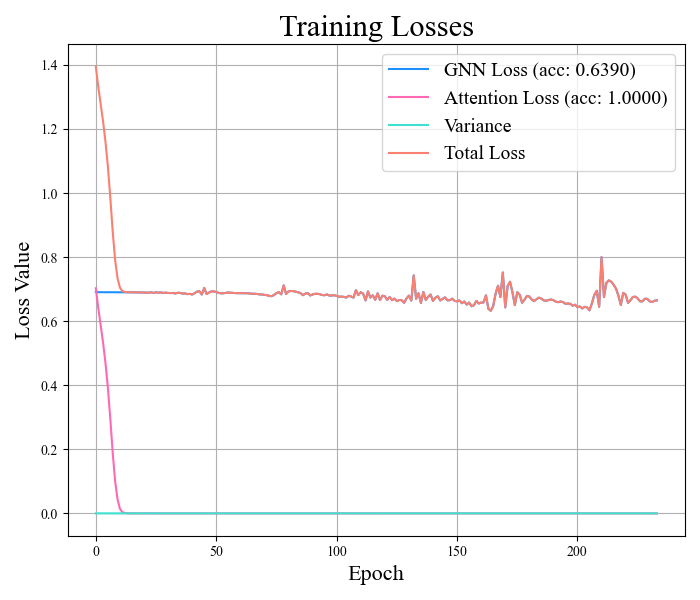
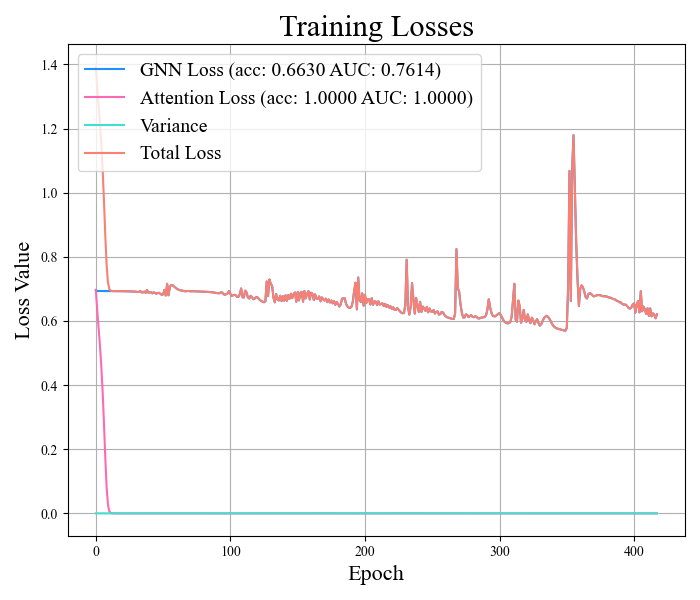
Add auc scores to the model

diff --git a/train.py b/train.py
@@ -10,6 +10,7 @@ from matplotlib import rcParams
 from models import *
 from constants import *
 from tqdm.auto import tqdm
+from sklearn.metrics import roc_auc_score
 
 # Set the font for the plots
 rcParams['font.family'] = "Times New Roman"
@@ -163,10 +164,21 @@ def train(n_classes, n_colors, data):
     print(f"Final GNN Accuracy: {gnn_accuracy:.4f}")
     print(f"Final Attention Accuracy: {attention_accuracy:.4f}")
 
+    # Check AUC
+    gnn_scores = mlp_output.softmax(dim=1)[:, 1].detach().cpu().numpy()
+    attention_scores = attention_output.softmax(dim=1)[:, 1].detach().cpu().numpy()
+    node_labels_np = node_labels.detach().cpu().numpy()
+    color_labels_np = color_labels.detach().cpu().numpy()
+    gnn_auc = roc_auc_score(node_labels_np, gnn_scores)
+    attention_auc = roc_auc_score(color_labels_np, attention_scores)
+    print(f"GNN AUC: {gnn_auc:.4f}")
+    print(f"Attention AUC: {attention_auc:.4f}")
+
+
     # Plot the losses and variance
     plt.figure(figsize=(7, 6))
-    plt.plot(losses_gnn, label=f'GNN Loss (acc: {gnn_accuracy:.4f})', color="dodgerblue")
-    plt.plot(losses_attention, label=f'Attention Loss (acc: {attention_accuracy:.4f})', color="hotpink")
+    plt.plot(losses_gnn, label=f'GNN Loss (acc: {gnn_accuracy:.4f} AUC: {gnn_auc:.4f})', color="dodgerblue")
+    plt.plot(losses_attention, label=f'Attention Loss (acc: {attention_accuracy:.4f} AUC: {attention_auc:.4f})', color="hotpink")
     plt.plot(variances, label='Variance', color="turquoise")
     plt.plot(losses_total, label='Total Loss', color="salmon")
     plt.xlabel('Epoch', fontsize=16)
